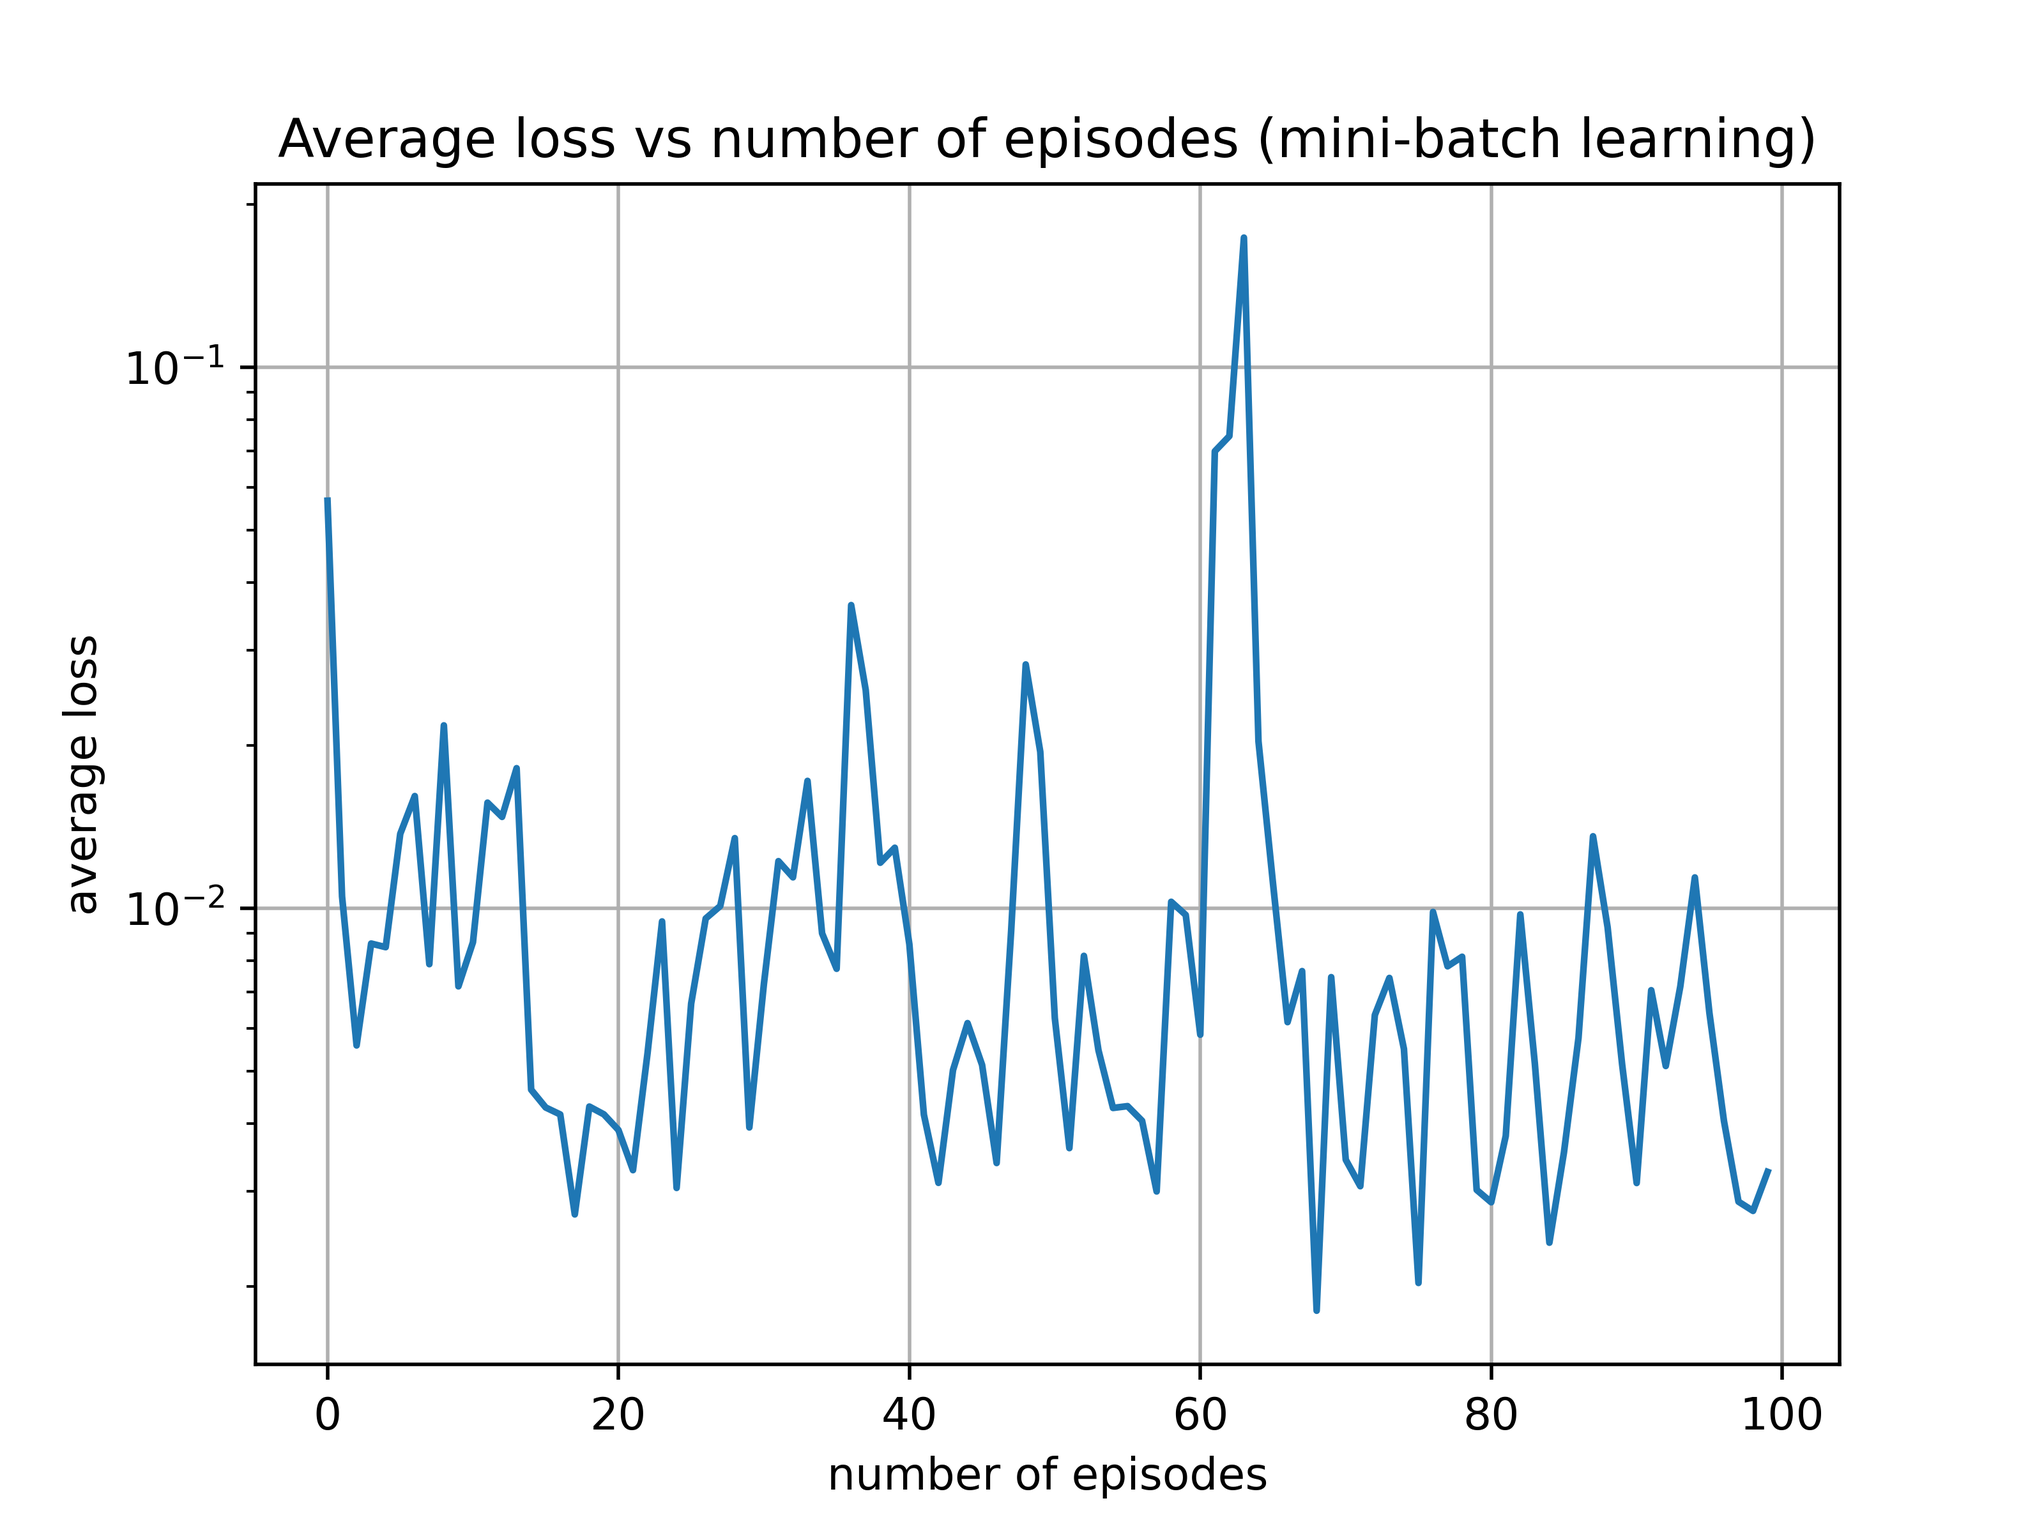
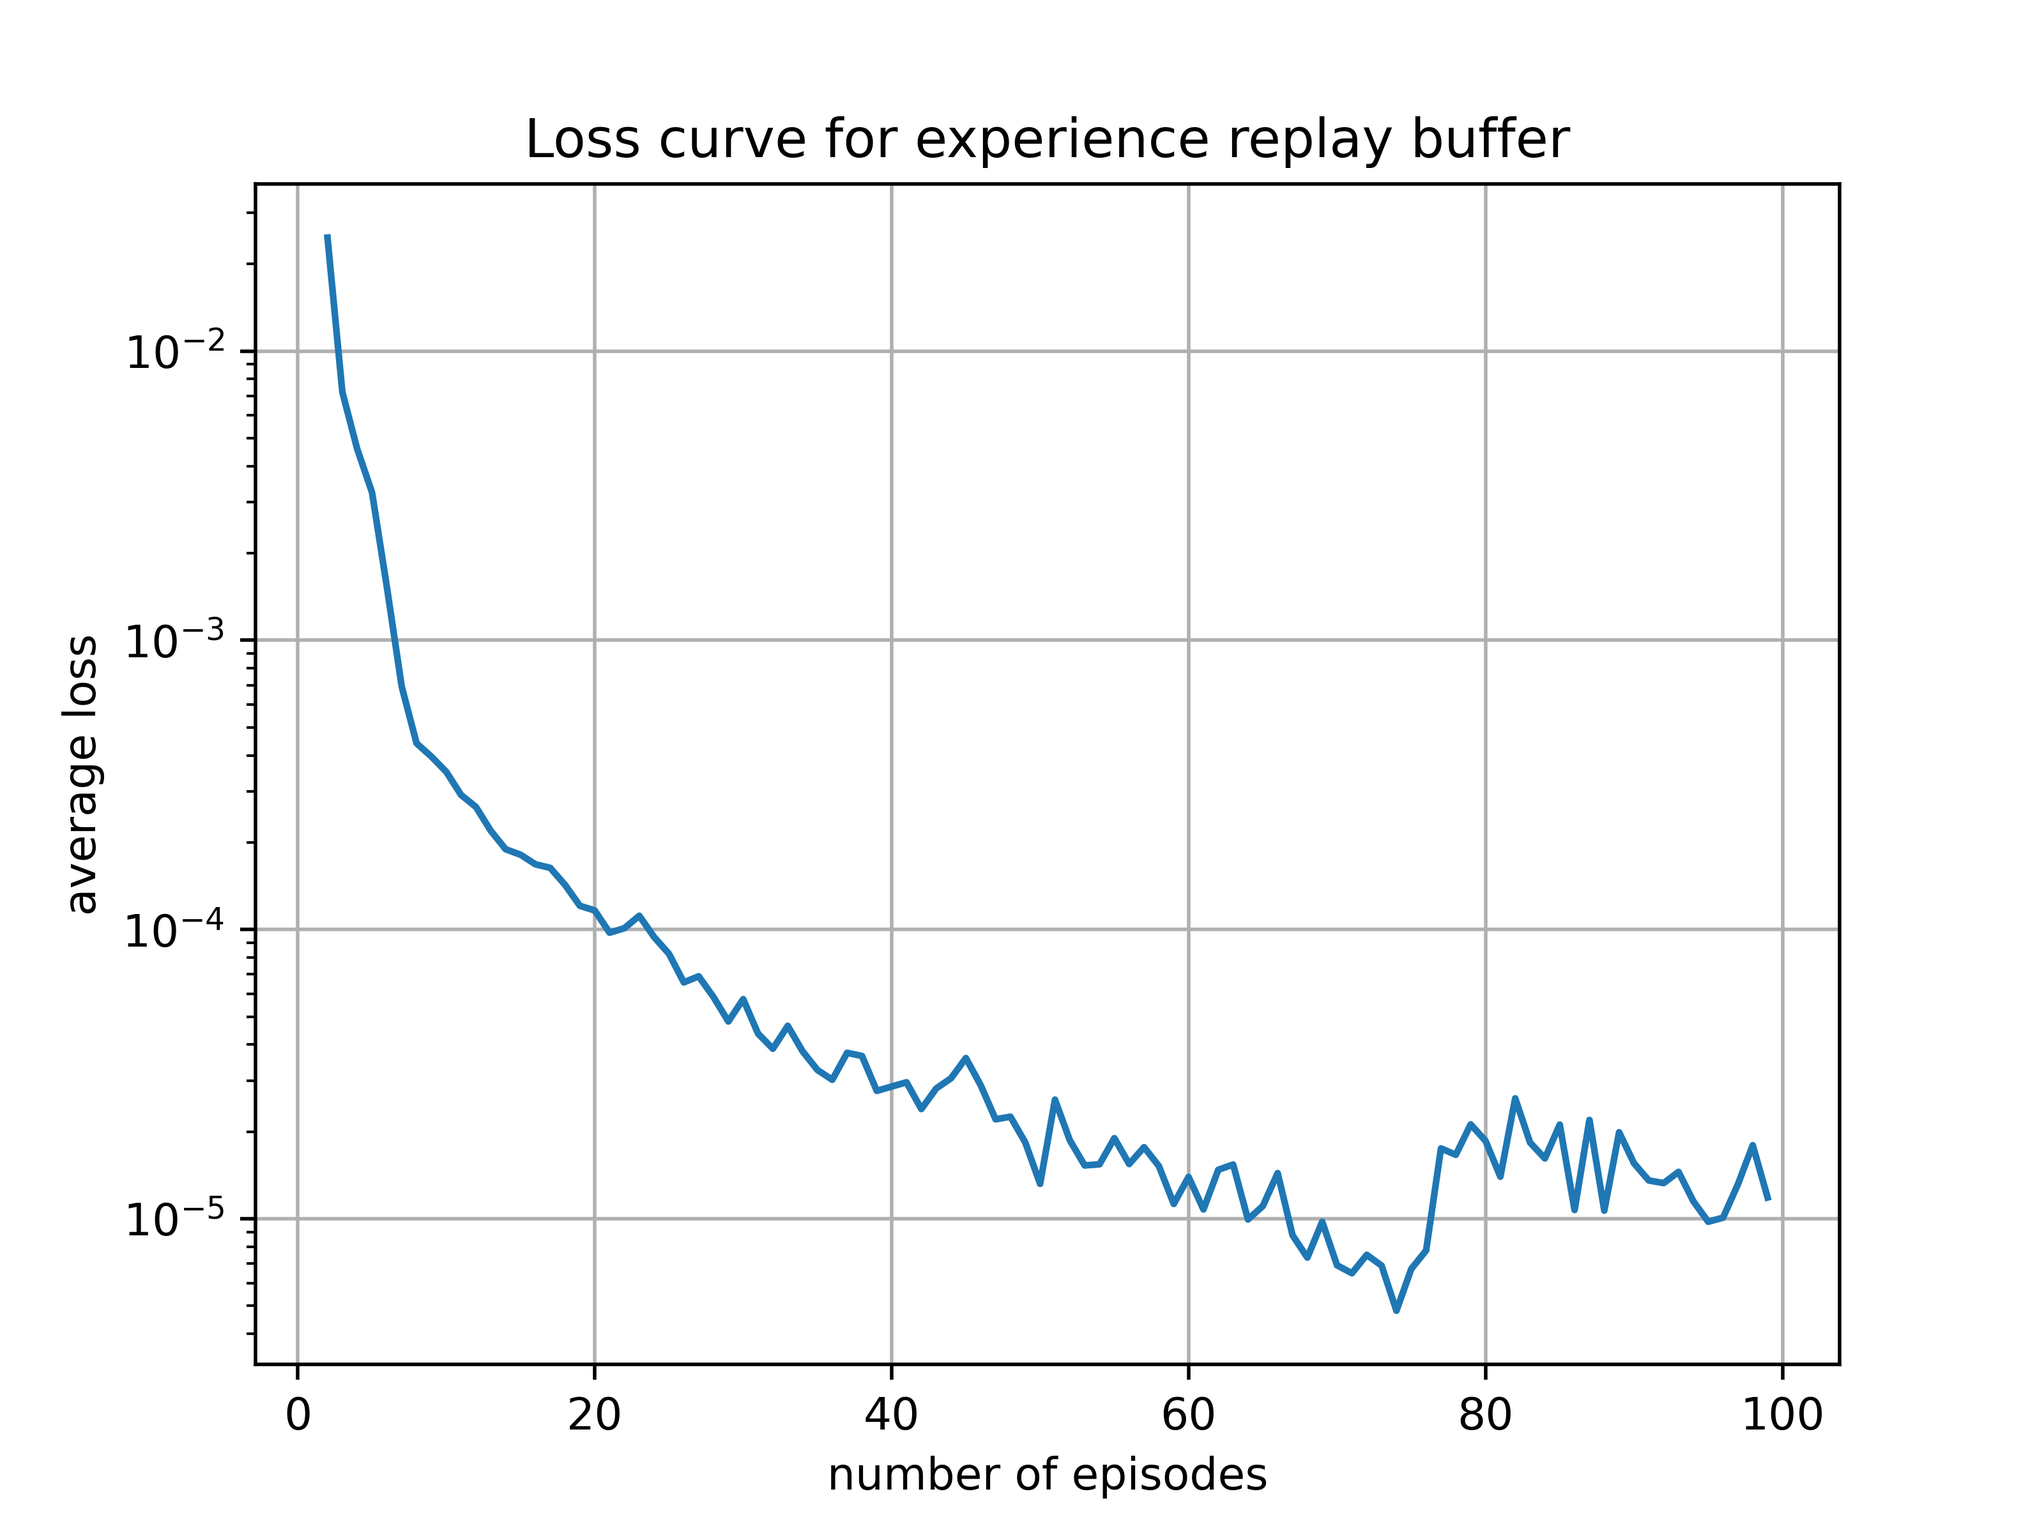
updated agent and added hyperparameter test file

diff --git a/DQN/starter_code.py b/DQN/starter_code.py
@@ -6,6 +6,7 @@ import matplotlib.pyplot as plt
 import collections
 import random
 import cv2
+import copy
 
 
 # Import the environment module
@@ -34,9 +35,10 @@ class Agent:
         self.total_reward = 0.0
 
     # Function to make the agent take one step in the environment.
-    def step(self):
+    def step(self,episode):
         # Choose the next action.
-        discrete_action = self._choose_next_action()
+        # discrete_action = self._choose_next_action_random() 
+        discrete_action = self._choose_epsilon_greedy_action(self.state,episode) # greedy action
         # Convert the discrete action into a continuous action.
         continuous_action = self._discrete_action_to_continuous(discrete_action)
         # Take one step in the environment, using this continuous action, based on the agent's current state. This returns the next state, and the new distance to the goal from this new state. It also draws the environment, if display=True was set when creating the environment object..
@@ -53,10 +55,31 @@ class Agent:
         return transition
 
     # Function for the agent to choose its next action
-    def _choose_next_action(self):
+    def _choose_next_action_random(self):
         # Choose random action and return
         action = np.random.randint(0,4)  
         return action
+    
+    # function to choose action in epsilon greedy manner
+    def _choose_epsilon_greedy_action(self, current_state, k):
+        
+        epsilon_decay = 0.993
+        epsilon = epsilon_decay**k
+        
+        current_state = torch.tensor(current_state)
+        
+        predictions = dqn.q_network.forward(torch.unsqueeze(current_state, 0))
+        greedy_action = int(torch.argmax(predictions,1)[0])
+        
+        num = np.random.random()        
+        
+        if num < epsilon:
+            action = greedy_action
+        else:
+            action = np.random.choice([0,1,2,3])
+            
+        return action
+        
 
     # Function to convert discrete action (as used by a DQN) to a continuous action (as used by the environment).
     # 0 = right, 1 = left, 2 = up, 3 = down
@@ -73,7 +96,7 @@ class Agent:
 
     # Function for the agent to compute its reward. In this example, the reward is based on the agent's distance to the goal after the agent takes an action.
     def _compute_reward(self, distance_to_goal):
-        reward = 1 - distance_to_goal
+        reward = float(0.1*(1 - distance_to_goal))
         return reward
 
 
@@ -106,6 +129,8 @@ class DQN:
         self.q_network = Network(input_dimension=2, output_dimension=4)
         # Define the optimiser which is used when updating the Q-network. The learning rate determines how big each gradient step is during backpropagation.
         self.optimiser = torch.optim.Adam(self.q_network.parameters(), lr=0.001)
+        # create target network object
+        self.target_network = copy.deepcopy(self.q_network)
 
     # Function that is called whenever we want to train the Q-network. Each call to this function takes in a transition tuple containing the data we use to update the Q-network.
     def train_q_network(self, transition, train_type, discount):
@@ -164,7 +189,8 @@ class DQN:
         minibatch_next_states_tensor = torch.tensor(minibatch_next_states)
         
         # next state Q values for use in Bellman equation
-        max_next_state_Q_values, idx = torch.max(self.q_network.forward(minibatch_next_states_tensor),1)
+        # max_next_state_Q_values, idx = torch.max(self.q_network.forward(minibatch_next_states_tensor),1)
+        max_next_state_Q_values, idx = torch.max(self.target_network.forward(minibatch_next_states_tensor),1) # target network
         max_next_state_Q_values = max_next_state_Q_values.detach()
         
         # predict Q values
@@ -173,14 +199,24 @@ class DQN:
         # use Bellman equation to calculate actual Q values
         Q_actual = rewards_tensor + discount*max_next_state_Q_values
         
-        # full Bellman equation
-        # Q_predicted = instantaneous_reward + discount*np.amax(predicted_rewards[0,:])
-        
         loss = torch.nn.MSELoss()(Q_predictions, Q_actual)
         
         return loss
-
-# class TargetNetwork:
+    
+    # function to update target network by copying weights from main network when called
+    def update_target_network(self):
+        self.target_network = copy.deepcopy(self.q_network)
+        
+    # function to get Q values
+    def get_Q_vals(self):
+        q_values = np.zeros([10,10,4]) # create 3D array to hold q values
+        for row in range(10):
+            for col in range(10):
+                state = torch.tensor([row/10 + 0.05,col/10 + 0.05])
+                for action in range(4):
+                    predicted_rewards = self.q_network.forward(torch.unsqueeze(state,0))
+                    q_values[row,col,action] = predicted_rewards[0, action]
+        return q_values
     
 # REPLAY BUFFER CLASS FOR MINIBATCH TRAINING
 class ReplayBuffer:
@@ -195,6 +231,9 @@ class ReplayBuffer:
         # enumerate deque and create list of tuples according to randomly generated minibatch indices         
         minibatch = [transition_tuple for i, transition_tuple in enumerate(self.buffer) if i in minibatch_indices]
         return minibatch
+    
+    def get_length(self):
+        return len(self.buffer)
 
 class QValueVisualiser:
 
@@ -226,9 +265,12 @@ class QValueVisualiser:
         # Draw the grid cells
         self._draw_grid_cells()
         # Show the image
-        cv2.imwrite('q_values_image_online.png', self.q_values_image)
+        # cv2.imwrite('q_values_epsilon_greedy.png', self.q_values_image)
         cv2.imshow("Q Values", self.q_values_image)
-        cv2.waitKey()
+        cv2.waitKey(1)
+    
+    def save_Q_image(self,name):
+        cv2.imwrite('{}.png'.format(name), self.q_values_image)
 
     def _draw_q_value(self, x, y, action, q_value_norm):
         # First, convert state space to image space for the "up-down" axis, because the world space origin is the bottom left, whereas the image space origin is the top left
@@ -296,7 +338,7 @@ if __name__ == "__main__":
     # Create an environment.
     # If display is True, then the environment will be displayed after every agent step. This can be set to False to speed up training time. The evaluation in part 2 of the coursework will be done based on the time with display=False.
     # Magnification determines how big the window will be when displaying the environment on your monitor. For desktop monitors, a value of 1000 should be about right. For laptops, a value of 500 should be about right. Note that this value does not affect the underlying state space or the learning, just the visualisation of the environment.
-    environment = Environment(display=False, magnification=500)
+    environment = Environment(display=True, magnification=500)
     
     # Create an agent
     agent = Agent(environment)
@@ -304,48 +346,46 @@ if __name__ == "__main__":
     # Create a DQN (Deep Q-Network)
     dqn = DQN()
     
-    num_episodes = 100 # number of episodes
-    episode_length = 20 # episode length
+    num_episodes = 400 # number of episodes
+    episode_length = 50 # episode length
 
     # TRAINING
     
-    # Online training 
-    # Loop over episodes
-    ave_loss_list = []
-    for ep in range(num_episodes):
-        # Reset the environment for the start of the episode.
-        agent.reset()
-        loss_list = []
-        episode_length = 50
-        gamma = 0
-        # Loop over steps within this episode. The episode length here is 20.
-        for step_num in range(episode_length):
-            # Step the agent once, and get the transition tuple for this step
-            transition = agent.step()
-            print('Transition ',step_num, ':', transition,'\n')
-            loss = dqn.train_q_network(transition, 'online', gamma) # calculate loss for single step
-            # Sleep, so that you can observe the agent moving. Note: this line should be removed when you submit the code in your coursework, to speed up training
-            loss_list.append(loss) # append loss to list
-        ave_loss = np.mean(loss_list)
-        ave_loss_list.append(ave_loss)
-    plt.plot(range(len(ave_loss_list)),ave_loss_list)
-    plt.yscale('log')
-    plt.grid()
-    plt.xlabel('number of episodes')
-    plt.ylabel('average loss')
-    plt.title('Average loss vs number of episodes (online learning)')
-    plt.savefig('ave_loss_vs_episodes_online.png', dpi=500)
+    # # Online training 
+    # # Loop over episodes
+    # ave_loss_list = []
+    # for ep in range(num_episodes):
+    #     # Reset the environment for the start of the episode.
+    #     agent.reset()
+    #     loss_list = []
+    #     gamma = 0
+    #     # Loop over steps within this episode. The episode length here is 20.
+    #     for step_num in range(episode_length):
+    #         # Step the agent once, and get the transition tuple for this step
+    #         transition = agent.step()
+    #         print('Episode: ', ep, '\nTransition ',step_num, ':', transition,'\n')
+    #         loss = dqn.train_q_network(transition, 'online', gamma) # calculate loss for single step
+    #         # Sleep, so that you can observe the agent moving. Note: this line should be removed when you submit the code in your coursework, to speed up training
+    #         loss_list.append(loss) # append loss to list
+    #     ave_loss = np.mean(loss_list)
+    #     ave_loss_list.append(ave_loss)
+    # plt.plot(range(len(ave_loss_list)),ave_loss_list)
+    # plt.yscale('log')
+    # plt.grid()
+    # plt.xlabel('number of episodes')
+    # plt.ylabel('average loss')
+    # plt.title('Loss Curve for Online Learning')
+    # plt.savefig('loss_online.png', dpi=500)
 
         
-    # # Minibatch training
+    # Minibatch training
     # ave_loss_list = []
+    # buffer = ReplayBuffer() # create a new replay buffer to store transitions
     # for episode in range(num_episodes):
     #     # Reset the environment for the start of the episode.
     #     agent.reset()
-    #     buffer = ReplayBuffer() # create a new replay buffer to store transitions
     #     loss_list = []
-    #     episode_length = 100
-    #     minibatch_length = 50
+    #     minibatch_length = 100
     #     gamma = 0.9 # discount factor
     #     print('Episode: ', episode)
     #     # Loop over steps within this episode. The episode length here is 20.
@@ -354,8 +394,8 @@ if __name__ == "__main__":
     #         transition = agent.step()
     #         print('Episode: ', episode, '\nTransition ', step_num, ':', transition,'\n')
     #         buffer.append_transition_tuple(transition)
-    #         if step_num >= minibatch_length:
-    #             minibatch = buffer.sample_minibatch(step_num, minibatch_length) # sample minibatch
+    #         if buffer.get_length() >= minibatch_length:
+    #             minibatch = buffer.sample_minibatch(buffer.get_length(), minibatch_length) # sample minibatch
     #             loss = dqn.train_q_network(minibatch,'minibatch',gamma) # calculate loss for minibatch
     #             loss_list.append(loss) # append minibatch loss to list
     #     ave_loss = np.mean(loss_list) # calculate average loss for episode
@@ -368,21 +408,62 @@ if __name__ == "__main__":
     # plt.grid()
     # plt.xlabel('number of episodes')
     # plt.ylabel('average loss')
-    # plt.title('Average loss vs number of episodes (mini-batch learning)')
-    # plt.savefig('ave_loss_vs_episodes_minibatch.png', dpi=500)
+    # plt.title('Loss Curve for Buffer, Bellman equation ($\gamma$ = 0.9) and no Target Network')
+    # plt.savefig('loss_replay_bellman_no_target.png', dpi=500)
     
-   # %% CALCULATE Q VALUES USING TRAINED NETWORK AND VISUALISE
-    # q_values = np.zeros([10,10,4]) # create 3D array to hold q values
-    # for row in range(10):
-    #     for col in range(10):
-    #         state = torch.tensor([row/10 + 0.05,col/10 + 0.05])
-    #         for action in range(4):
-    #             predicted_rewards = dqn.q_network.forward(torch.unsqueeze(state,0))
-    #             q_values[row,col,action] = predicted_rewards[0, action]
-    # print(q_values)
+    # Bellman equation with target network
+    # Minibatch training
+    ave_loss_list = []
+    buffer = ReplayBuffer() # create a new replay buffer to store transitions
+    visualiser = QValueVisualiser(environment)
+    for episode in range(num_episodes):
+        # Reset the environment for the start of the episode.
+        agent.reset()
+        loss_list = []
+        minibatch_length = 100
+        gamma = 0.9 # discount factor
+        # Loop over steps within this episode. The episode length here is 20.
+        for step_num in range(episode_length):
+            # Step the agent once, and get the transition tuple for this step
+            transition = agent.step(episode)
+            # print('Episode: ', episode, '\nTransition ', step_num, ':', transition,'\n')
+            buffer.append_transition_tuple(transition)
+            if buffer.get_length() >= minibatch_length:
+                minibatch = buffer.sample_minibatch(buffer.get_length(), minibatch_length) # sample minibatch
+                loss = dqn.train_q_network(minibatch,'minibatch',gamma) # calculate loss for minibatch
+                loss_list.append(loss) # append minibatch loss to list
+        # if step_num%10 == 0:
+        #     dqn.update_target_network()
+        visualiser.draw_q_values(dqn.get_Q_vals())
+        ave_loss = np.mean(loss_list) # calculate average loss for episode
+        print('Episode: ', episode, '\nLoss: ', ave_loss)
+        ave_loss_list.append(ave_loss) # append average loss to list 
+        if episode%10 == 0:
+            dqn.update_target_network()
+        # train network on minibatches
+            # Sleep, so that you can observe the agent moving. Note: this line should be removed when you submit the code in your coursework, to speed up training
+            # time.sleep(0.2)
+    plt.plot(range(len(ave_loss_list)),ave_loss_list)
+    plt.yscale('log')
+    plt.grid()
+    plt.xlabel('number of episodes')
+    plt.ylabel('average loss')
+    plt.title('Loss Curve for Buffer, Bellman equation ($\gamma$ = 0.9) and Target Network')
+    plt.savefig('loss_replay_bellman_target_epsilon_greedy_5.png', dpi=500)
     
-    # visualiser = QValueVisualiser(environment)
-    # visualiser.draw_q_values(q_values)
+    
+    visualiser.save_Q_image('epsilon_greedy_Q_vals_5')
+
+    
+    #%% CALCULATE Q VALUES USING TRAINED NETWORK AND VISUALISE
+    q_values = np.zeros([10,10,4]) # create 3D array to hold q values
+    for row in range(10):
+        for col in range(10):
+            state = torch.tensor([row/10 + 0.05,col/10 + 0.05])
+            for action in range(4):
+                predicted_rewards = dqn.q_network.forward(torch.unsqueeze(state,0))
+                q_values[row,col,action] = predicted_rewards[0, action]
+    print(q_values)
     
     # CALCULATE OPTIMAL POLICY AND DRAW GREEDY POLICY
     policy = []
@@ -396,3 +477,9 @@ if __name__ == "__main__":
         current_state = next_state
         
     agent.environment.draw_policy(policy)
+    
+    
+    
+    
+    
+    

diff --git a/DQN/environment.py b/DQN/environment.py
@@ -87,7 +87,7 @@ class Environment:
                       int((1-next_state[1]) * self.magnification)),
             color=(0, 255, 0), thickness=5)
         # show image
-        cv2.imwrite('greedy_policy_online.png', self.image)
+        cv2.imwrite('epsilon_greedy_policy_5.png', self.image)
         cv2.imshow("Environment", self.image)
         # this line is necessary to allow time for the image to be rendered on the screen
         cv2.waitKey(1)
